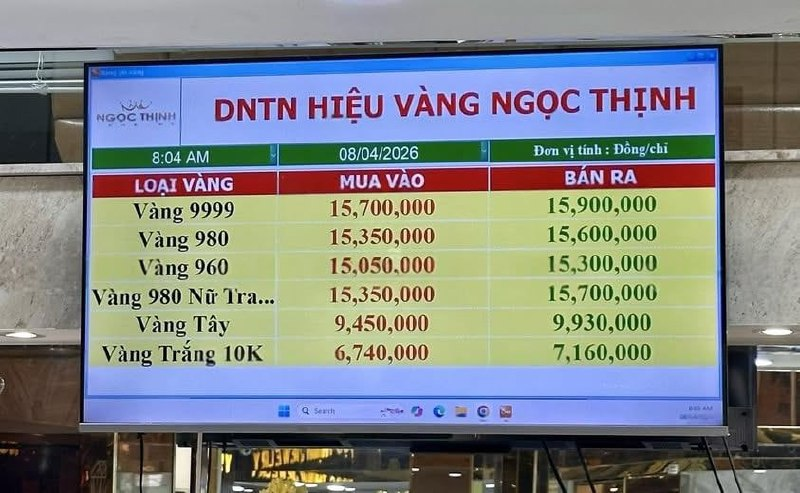
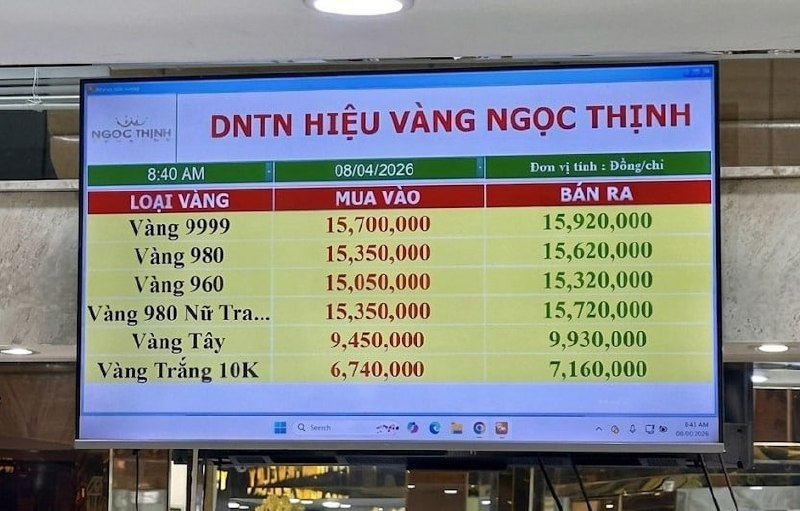
Update ngoc-thinh price image (08:51)

diff --git a/app/data/goldShops.ts b/app/data/goldShops.ts
@@ -19,7 +19,7 @@ export const GOLD_SHOPS: GoldShop[] = [
     name: "Ngọc Thịnh",
     location: "Đà Nẵng",
     image: "images/ngoc-thinh.jpg",
-    updatedAt: "08:13",
+    updatedAt: "08:51",
   },
   {
     id: "kim-khanh-viet-hung",
